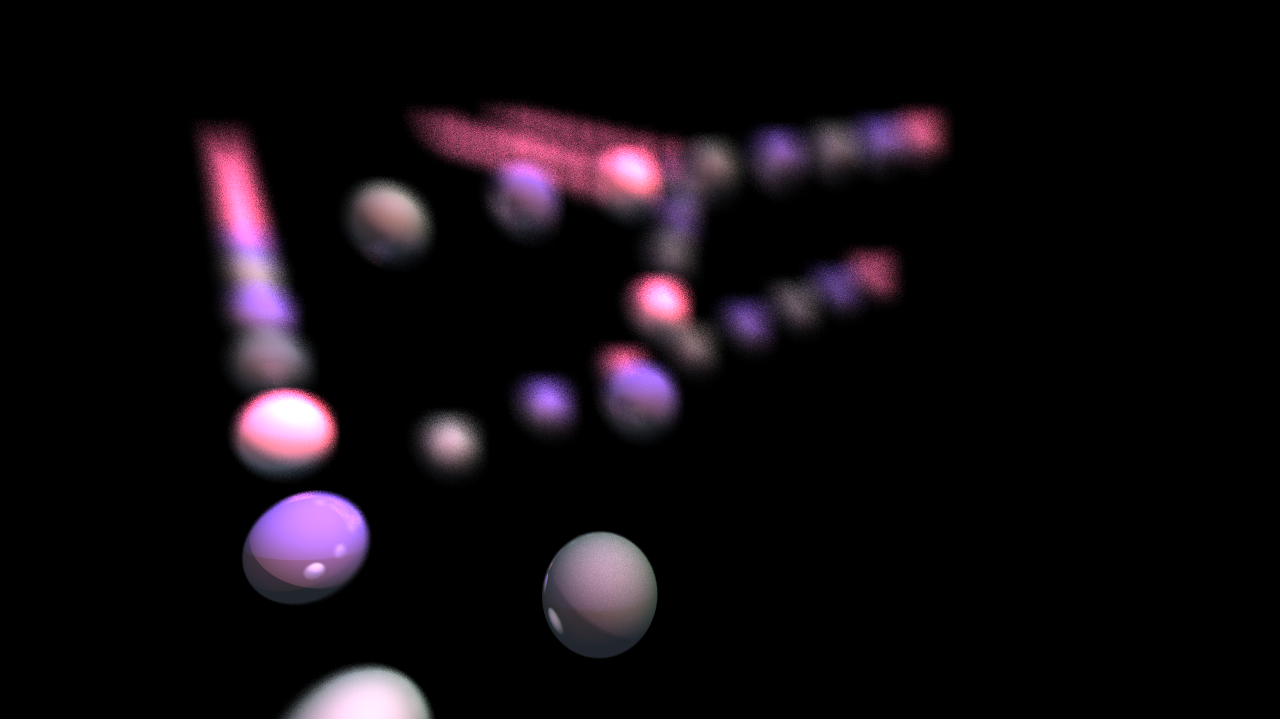
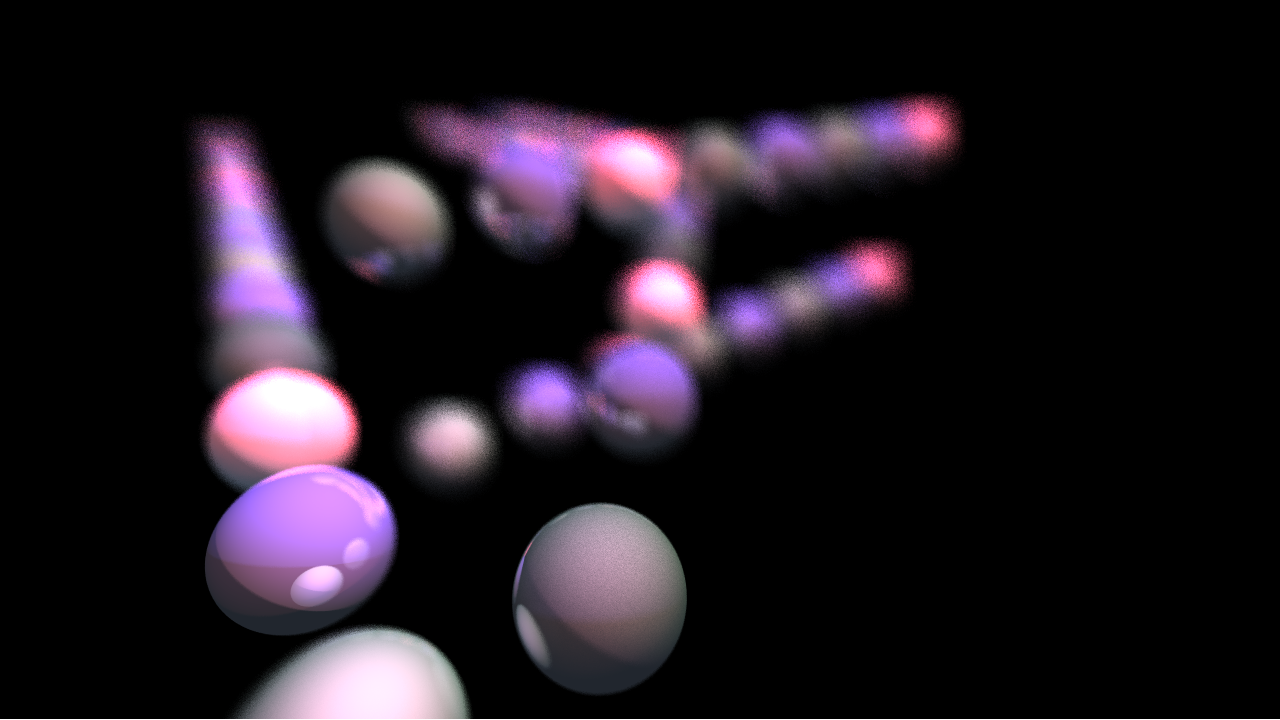
README; TODO; sample scene

Changed region(s): [[0.125, 0.1222, 0.75, 1.0], [0.375, 0.7028, 0.5625, 0.9778]]

diff --git a/TODO.md b/TODO.md
@@ -1,0 +1,6 @@
+1. Improve Reflection model **WIP**
+1. Add support for more primitives
+1. Improve Sampling
+1. Clean up the spaghetti code
+
+* Implement proper thin lens **DONE**

diff --git a/README.md b/README.md
@@ -1,0 +1,5 @@
+# A simple ray tracing toy in rust
+
+not meant for anything serious. Check TODO for future features.
+
+Added A LGPL license for everybody's convenience.
